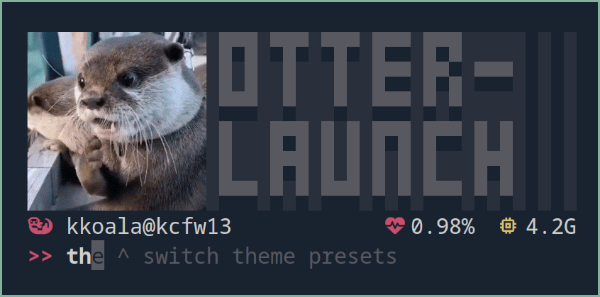
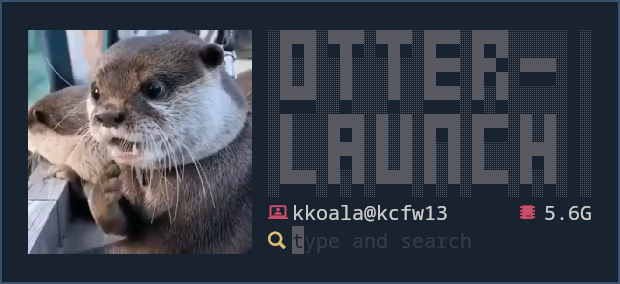
fix prompt_sign skewed by ansi codes; fix hint mode suggestion provider; fix no_arg module completion lacking a space

diff --git a/src/interface.rs b/src/interface.rs
@@ -16,7 +16,6 @@ use ratatui::{
 use ratatui_image::{Resize, StatefulImage, protocol::StatefulProtocol};
 use ratatui_textarea::TextArea;
 use std::time::{Duration, Instant};
-use unicode_width::UnicodeWidthStr;
 
 /// The event loop maps Activate to its existing Enter handler.
 #[derive(Debug, Clone, Copy, PartialEq, Eq)]
@@ -405,7 +404,6 @@ pub fn draw(
 
     let header_text = header.into_text().expect("failed to parse header ANSI");
 
-    // Earlier lines go above the input; the last line goes beside it.
     let header_height = if !header.is_empty() {
         u16::try_from(header_text.lines.len()).unwrap_or(0)
     } else {
@@ -470,7 +468,6 @@ pub fn draw(
         separator_area,
     );
 
-    // Earlier header lines remain above the border.
     frame.render_widget(
         Paragraph::new(header_text).style(
             Style::default()
@@ -480,21 +477,34 @@ pub fn draw(
         header_area,
     );
 
-    // One shared border around the last header line and input.
+    // Input field rendering
     let input_block = Block::default().borders(Borders::NONE);
     let input_inner = input_block.inner(input_area);
 
     frame.render_widget(input_block, input_area);
 
     // Leave at least one column for editable text.
-    let prompt_sign_width = u16::try_from(prompt_sign.width()).unwrap_or(2);
+    let prompt_text = prompt_sign
+        .into_text()
+        .expect("failed to parse prompt ANSI");
+
+    let prompt_sign_width = u16::try_from(prompt_text.width()).unwrap_or(u16::MAX);
 
     let [prefix_area, textarea_area] =
         Layout::horizontal([Constraint::Length(prompt_sign_width), Constraint::Fill(1)])
             .areas(input_inner);
 
     frame.render_widget(
-        Paragraph::new(prompt_sign).style(
+        Paragraph::new(prompt_text).style(
+            Style::default()
+                .fg(prompt_sign_color)
+                .add_modifier(Modifier::BOLD),
+        ),
+        prefix_area,
+    );
+
+    frame.render_widget(
+        Paragraph::new(prompt_sign.into_text().unwrap()).style(
             Style::default()
                 .fg(prompt_sign_color)
                 .add_modifier(Modifier::BOLD),
@@ -504,7 +514,7 @@ pub fn draw(
 
     frame.render_widget(textarea, textarea_area);
 
-    // Render placeholder 
+    // Render placeholder
     if textarea.is_empty() {
         let inner = textarea
             .block()
@@ -579,7 +589,6 @@ pub fn draw(
 
     // Exclude the block's border from the available list space.
     let inner = suggestion_block.inner(suggestions_area);
-    //let inner = suggestions_area;
     let visible_rows = usize::from(inner.height);
 
     let show_scrollbar = visible_rows > 0 && inner.width > 1 && suggestions.len() > visible_rows;
@@ -753,53 +762,70 @@ pub fn matching_suggestions<'a>(
     suggestions: &[&'a Module],
 ) -> Vec<&'a Module> {
     let input = textarea.lines().join(" ");
-    let query = input.to_lowercase();
-    let query_prefix = query.split_whitespace().next().unwrap_or("");
 
-    let matcher = SkimMatcherV2::default();
+    // List mode behavior
+    if config().interface.suggestion_mode.as_deref().unwrap() == "list" {
+        let query = input.to_lowercase();
+        let query_prefix = query.split_whitespace().next().unwrap_or("");
 
-    let mut prefix_matches = Vec::new();
-    let mut whole_input_matches: Vec<(i64, &'a Module)> = Vec::new();
-    let mut first_word_matches: Vec<(i64, &'a Module)> = Vec::new();
+        let matcher = SkimMatcherV2::default();
 
-    for module in suggestions.iter().copied() {
-        let prefix = module.prefix.to_lowercase();
+        let mut prefix_matches = Vec::new();
+        let mut whole_input_matches: Vec<(i64, &'a Module)> = Vec::new();
+        let mut first_word_matches: Vec<(i64, &'a Module)> = Vec::new();
 
-        // Group 1: prefix starts with the first word.
-        if prefix.starts_with(query_prefix) {
-            prefix_matches.push(module);
-            continue;
+        for module in suggestions.iter().copied() {
+            let prefix = module.prefix.to_lowercase();
+
+            // Group 1: prefix starts with the first word.
+            if prefix.starts_with(query_prefix) {
+                prefix_matches.push(module);
+                continue;
+            }
+
+            let description = module.description.to_lowercase();
+
+            // Group 2: fuzzy match against the entire input.
+            let whole_score = matcher
+                .fuzzy_match(&prefix, &query)
+                .max(matcher.fuzzy_match(&description, &query));
+
+            if let Some(score) = whole_score {
+                whole_input_matches.push((score, module));
+                continue;
+            }
+
+            // Group 3: fuzzy match against only the first word.
+            let first_word_score = matcher
+                .fuzzy_match(&prefix, query_prefix)
+                .max(matcher.fuzzy_match(&description, query_prefix));
+
+            if let Some(score) = first_word_score {
+                first_word_matches.push((score, module));
+            }
         }
 
-        let description = module.description.to_lowercase();
+        whole_input_matches.sort_by(|a, b| b.0.cmp(&a.0));
+        first_word_matches.sort_by(|a, b| b.0.cmp(&a.0));
 
-        // Group 2: fuzzy match against the entire input.
-        let whole_score = matcher
-            .fuzzy_match(&prefix, &query)
-            .max(matcher.fuzzy_match(&description, &query));
+        prefix_matches.extend(whole_input_matches.into_iter().map(|(_, module)| module));
+        prefix_matches.extend(first_word_matches.into_iter().map(|(_, module)| module));
 
-        if let Some(score) = whole_score {
-            whole_input_matches.push((score, module));
-            continue;
-        }
+        prefix_matches
 
-        // Group 3: fuzzy match against only the first word.
-        let first_word_score = matcher
-            .fuzzy_match(&prefix, query_prefix)
-            .max(matcher.fuzzy_match(&description, query_prefix));
+    // Hint mode behaviour
+    } else {
+        let query = input.split_whitespace().next().unwrap_or("").to_lowercase();
 
-        if let Some(score) = first_word_score {
-            first_word_matches.push((score, module));
-        }
+        suggestions
+            .iter()
+            .copied()
+            .filter(|module| {
+                query.is_empty()
+                    || module.prefix.to_lowercase().starts_with(&query)
+            })
+            .collect()
     }
-
-    whole_input_matches.sort_by(|a, b| b.0.cmp(&a.0));
-    first_word_matches.sort_by(|a, b| b.0.cmp(&a.0));
-
-    prefix_matches.extend(whole_input_matches.into_iter().map(|(_, module)| module));
-    prefix_matches.extend(first_word_matches.into_iter().map(|(_, module)| module));
-
-    prefix_matches
 }
 
 pub fn normalize_selection(state: &mut ListState, item_count: usize) {

diff --git a/src/main.rs b/src/main.rs
@@ -86,7 +86,6 @@ fn main() -> Result<(), Box<dyn Error>> {
 
             // Initialize editor
             let vi_mode = cfg.general.vi_mode.unwrap();
-            //let placeholder = cfg.interface.placeholder.as_deref().unwrap();
             let mut textarea = TextArea::default();
             textarea.set_cursor_line_style(Style::default());
             textarea.set_block(Mode::Insert.block());
@@ -94,8 +93,7 @@ fn main() -> Result<(), Box<dyn Error>> {
             let mut external_edit_pending = false;
             let mut vim = Vim::new(Mode::Insert);
             let mut tab_original: Option<String> = None;
-            //textarea.set_placeholder_text(placeholder);
-            //textarea.set_placeholder_style(Style::default().fg(Color::Black));
+            let suggestion_mode = config().interface.suggestion_mode.as_deref().unwrap();
 
             // Initialize suggestions
             let suggestions: Vec<&Module> = cfg.modules.iter().collect();
@@ -237,7 +235,7 @@ fn main() -> Result<(), Box<dyn Error>> {
                                     }
                                 } else {
                                     // Non-argument-taking module: replace the entire input.
-                                    module.prefix.clone()
+                                    format!("{} ", module.prefix)
                                 };
 
                                 tab_original = Some(prompt);
